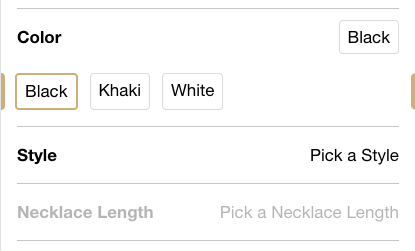
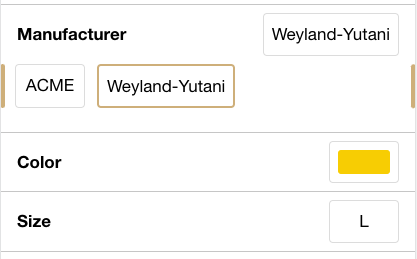
CCP-2521 Added color swatches

diff --git a/frontend/components/ProductCharacteristics/components/Characteristic/components/CharacteristicValue/index.jsx b/frontend/components/ProductCharacteristics/components/Characteristic/components/CharacteristicValue/index.jsx
@@ -1,4 +1,6 @@
-import React, { Fragment, memo, useMemo, useCallback } from 'react';
+import React, {
+  Fragment, memo, useMemo, useCallback,
+} from 'react';
 import PropTypes from 'prop-types';
 import classNames from 'classnames';
 import { css } from 'glamor';
@@ -13,13 +15,8 @@ const {
   characteristicValueBorderColorSelected,
 } = config;
 
-const borderColor =  characteristicValueBorderColor ||'#DCDCDC';
+const borderColor = characteristicValueBorderColor || '#DCDCDC';
 const borderColorSelected = characteristicValueBorderColorSelected || colors.primary;
-
-const swatch = css({
-  width: 50,
-  borderRadius: 2,
-}).toString();
 
 const styles = {
   root: css({
@@ -27,6 +24,8 @@ const styles = {
     borderRadius: 4,
     padding: 8,
     display: 'flex',
+    minWidth: 70,
+    justifyContent: 'center',
   }).toString(),
   selected: css({
     borderColor: `${borderColorSelected} !important`,
@@ -36,12 +35,12 @@ const styles = {
     color: colors.shade4,
     cursor: 'default',
     ' > span': {
-      opacity: 0.4
-    }
+      opacity: 0.4,
+    },
   }).toString(),
   swatch: css({
-    width: 50,
-    borderRadius: 2,
+    width: '100%',
+    borderRadius: 3,
   }).toString(),
 };
 
@@ -52,31 +51,33 @@ const styles = {
  * @returns {JSX}
  */
 const CharacteristicValue = ({
-  value, className, onClick, characteristicId, characteristicLabel
+  value, className, onClick, characteristicId, characteristicLabel,
 }) => {
-  const { id, label, selected, selectable } = value;
+  const {
+    id, label, selected, selectable,
+  } = value;
 
   const { getSwatchColor } = useProductCharacteristics();
 
+  const clickable = useMemo(() => typeof onClick === 'function', [onClick]);
+
   // Determine if the value needs to be displayed as a swatch
-  const swatchColor = useMemo(() => {
-    return getSwatchColor({
-      id: characteristicId,
-      label: characteristicLabel
-    }, value);
-  }, [label]);
+  const swatchColor = useMemo(() => getSwatchColor({
+    id: characteristicId,
+    label: characteristicLabel,
+  }, value), [value, characteristicId, characteristicLabel, getSwatchColor]);
 
   const classes = useMemo(() => classNames(
     styles.root,
     className,
     'pdp-variant-accordion__characteristic__value',
     {
-      [styles.selected]: selected,
+      [styles.selected]: clickable && selected,
       [styles.disabled]: !selectable,
-      selected,
+      selected: clickable && selected,
       disabled: !selectable,
     }
-  ), [className, selectable, selected]);
+  ), [className, selectable, selected, clickable]);
 
   const handleClick = useCallback(() => {
     if (selectable && onClick) {
@@ -95,7 +96,7 @@ const CharacteristicValue = ({
   return (
     <Component className={classes}>
       { swatchColor ? (
-        <span className={styles.swatch} style={{background: swatchColor}}>&nbsp;</span>
+        <span className={styles.swatch} style={{ background: swatchColor }}>&nbsp;</span>
       ) : (
         <Fragment>
           {label}
@@ -106,9 +107,9 @@ const CharacteristicValue = ({
 };
 
 CharacteristicValue.propTypes = {
-  value: PropTypes.shape().isRequired,
   characteristicId: PropTypes.string.isRequired,
   characteristicLabel: PropTypes.string.isRequired,
+  value: PropTypes.shape().isRequired,
   className: PropTypes.string,
   onClick: PropTypes.func,
 };

diff --git a/frontend/selectors/index.js b/frontend/selectors/index.js
@@ -1,0 +1,57 @@
+import { createSelector } from 'reselect';
+import { getProductVariants } from '@shopgate/engage/product';
+import { isDev } from '@shopgate/engage/core';
+import { colorCharacteristic, propertyWithColor } from '../config';
+
+export const getColorCharacteristic = createSelector(
+  getProductVariants,
+  (variants) => {
+    if (!variants) {
+      return null;
+    }
+
+    const characteristic = variants.characteristics.find(char => (
+      colorCharacteristic.includes(char.label)
+    ));
+
+    if (!characteristic) {
+      return null;
+    }
+
+    // Every swatch value should read propertyWithColor
+    const updateValues = characteristic.values.map((value) => {
+      const { additionalProperties } = variants.products.find(p => (
+        p.characteristics[characteristic.id] === value.id
+      )) || {};
+
+      let property;
+
+      if (additionalProperties) {
+        property = additionalProperties.find(p => p.label === propertyWithColor);
+
+        if (isDev) {
+          const needles = ['Black', 'Blue'];
+          const colors = ['#0056CD', '#D3148E', '#FAED10'];
+
+          if (needles.includes(property.value)) {
+            property.value = colors[needles.findIndex(entry => entry === property.value)];
+          }
+        }
+
+        if (!/(?:#|0x)(?:[a-f0-9]{3}|[a-f0-9]{6})\b|(?:rgb|hsl)a?\([^)]*\)/i.test(property.value)) {
+          property = null;
+        }
+      }
+
+      return {
+        ...value,
+        color: property ? property.value : null,
+      };
+    }).filter(Boolean);
+
+    return {
+      ...characteristic,
+      values: updateValues,
+    };
+  }
+);

diff --git a/frontend/components/ProductCharacteristics/Provider.jsx b/frontend/components/ProductCharacteristics/Provider.jsx
@@ -15,6 +15,7 @@ const allowMultipleOpen = false;
  */
 const ProductCharacteristicsProvider = ({
   characteristics,
+  colorCharacteristic,
   children,
 }) => {
   const [characteristicStates, setCharacteristicStates] = useState(null);
@@ -57,15 +58,25 @@ const ProductCharacteristicsProvider = ({
    * @returns {string|null}
    */
   const getSwatchColor = useCallback((characteristic, value) => {
-    return null;
-  }, []);
+    if (!colorCharacteristic || characteristic.id !== colorCharacteristic.id) {
+      return null;
+    }
+
+    const { color } = colorCharacteristic.values.find(({ id }) => id === value.id) || {};
+
+    if (!color) {
+      return null;
+    }
+
+    return color;
+  }, [colorCharacteristic]);
 
   const value = useMemo(() => ({
     allowMultipleOpen,
     characteristicStates: characteristicStates || [],
     setOpenState,
     getSwatchColor,
-  }), [characteristicStates, setOpenState]);
+  }), [characteristicStates, getSwatchColor, setOpenState]);
 
   return (
     <Context.Provider value={value}>
@@ -77,9 +88,11 @@ const ProductCharacteristicsProvider = ({
 ProductCharacteristicsProvider.propTypes = {
   characteristics: PropTypes.arrayOf(PropTypes.shape()).isRequired,
   children: PropTypes.node,
+  colorCharacteristic: PropTypes.shape(),
 };
 
 ProductCharacteristicsProvider.defaultProps = {
+  colorCharacteristic: null,
   children: null,
 };
 

diff --git a/frontend/components/ProductCharacteristics/components/Characteristic/components/CharacteristicValues/index.jsx b/frontend/components/ProductCharacteristics/components/Characteristic/components/CharacteristicValues/index.jsx
@@ -5,6 +5,7 @@ import classNames from 'classnames';
 import { themeConfig } from '@shopgate/pwa-common/helpers/config';
 import CharacteristicValue from '../CharacteristicValue';
 import config from '../../../../../../config';
+
 const { colors } = themeConfig;
 
 const {
@@ -98,7 +99,7 @@ const CharacteristicValues = ({
       <div className={styles.container} ref={containerRef}>
         <div className={classNames(styles.terminator)}>&nbsp;</div>
         <div className={styles.valuesContainer}>
-          { values.map((value) => (
+          { values.map(value => (
             <CharacteristicValue
               key={value.id}
               characteristicId={characteristicId}
@@ -116,10 +117,10 @@ const CharacteristicValues = ({
 };
 
 CharacteristicValues.propTypes = {
-  onClick: PropTypes.func.isRequired,
-  values: PropTypes.arrayOf(PropTypes.shape()).isRequired,
   characteristicId: PropTypes.string.isRequired,
   characteristicLabel: PropTypes.string.isRequired,
+  onClick: PropTypes.func.isRequired,
+  values: PropTypes.arrayOf(PropTypes.shape()).isRequired,
   open: PropTypes.bool,
 };
 

diff --git a/frontend/components/ProductCharacteristics/connector.js b/frontend/components/ProductCharacteristics/connector.js
@@ -1,6 +1,7 @@
 import { connect } from 'react-redux';
 import isEqual from 'lodash/isEqual';
 import { getProductVariants } from '@shopgate/engage/product';
+import { getColorCharacteristic } from '../../selectors';
 
 /**
  * Maps the contents of the state to the component props.
@@ -12,6 +13,7 @@ const mapStateToProps = (state, props) => {
   const variants = getProductVariants(state, props);
   return {
     characteristics: variants ? variants.characteristics : [],
+    colorCharacteristic: getColorCharacteristic(state, props),
   };
 };
 

diff --git a/frontend/components/ProductCharacteristics/components/Characteristic/index.jsx b/frontend/components/ProductCharacteristics/components/Characteristic/index.jsx
@@ -37,7 +37,7 @@ const styles = {
     borderTopColor: borderColor,
     display: 'flex',
     flexDirection: 'column',
-    padding: '8px 0'
+    padding: '8px 0',
   }).toString(),
   containerLast: css({
     ...(showTrailingBorder ? {

diff --git a/README.md b/README.md
@@ -1,6 +1,6 @@
 # Shopgate Connect - Extension pdp-variant-accordion
 
-This extension will replace the default variant selection on PDP with an accordion style version.
+This extension will replace the default variant selection on PDP with an accordion style version. It also supports color swatches via additional product properties, provided by [@shopgate-project/products-properties](https://github.com/shopgate-professional-services/ext-products-properties)
 
 ![](assets/01.png)
 
@@ -12,6 +12,8 @@ This extension will replace the default variant selection on PDP with an accordi
 - `showBottomBorder` (boolean) Wether the last characteristic has a border at the bottom (_default_ `true`)
 - `characteristicValueBorderColor`(string) Border color of a characteristic value (e.g. `#57606a`)
 - `characteristicValueBorderColorSelected` (string) Border color of a selected characteristic value (e.g.`#0969da`)
+- `propertyWithColor` (string) An (additional) product property which contains a css color for a swatch.
+- `colorCharacteristic` (Array) A list of characteristic labels which are supposed to be displayed as swatches.
 
 ## Classes
 
